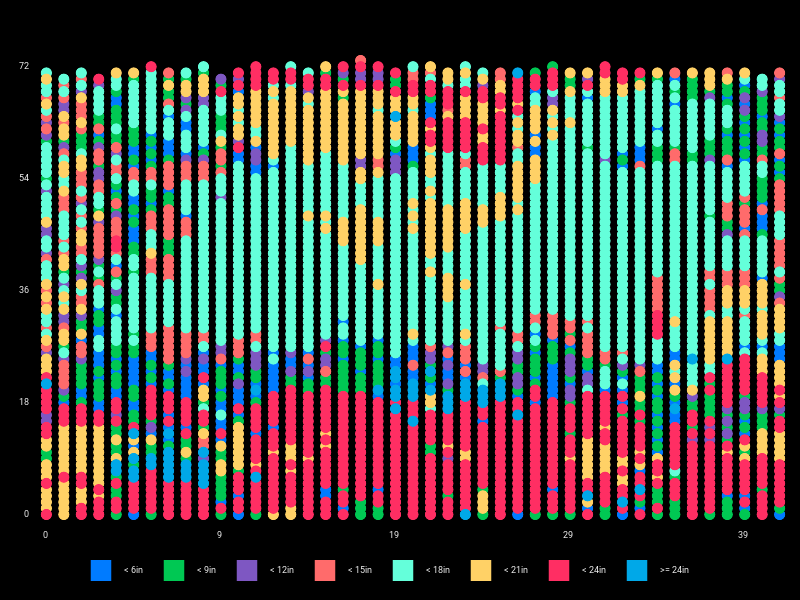
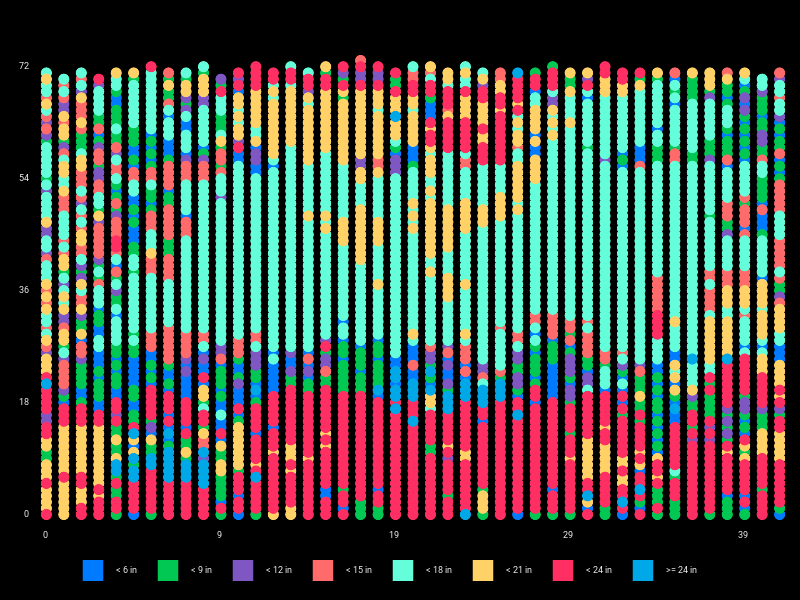
dropdowns

Changed region(s): [[0.0938, 0.93, 0.4688, 0.96], [0.5625, 0.93, 0.875, 0.99]]

diff --git a/app/controllers/data_controller.rb b/app/controllers/data_controller.rb
@@ -120,7 +120,7 @@ class DataController < ApplicationController
     end
 
     get_thickness_heatmap(below_six_x, below_six_y, six_nine_x, six_nine_y, nine_twelve_x, nine_twelve_y, twelve_fifteen_x, twelve_fifteen_y, fifteen_eighteen_x, fifteen_eighteen_y, eighteen_twentyone_x, eighteen_twentyone_y, twentyone_twentyfour_x, twentyone_twentyfour_y, above_twentyfour_x, above_twentyfour_y, x_min, x_max)
-    get_amplitude_heatmap(high_x, high_y, low_x, low_y, x_max, x_min)
+    get_amplitude_heatmap(high_x, high_y, low_x, low_y, x_max, x_min, amplitude_max.to_i)
 
 
   end
@@ -129,14 +129,14 @@ class DataController < ApplicationController
     # Create a Gruff::Scatter plot
     thickness_heatmap = Gruff::Scatter.new(800)
 
-    thickness_heatmap.data "< 6in", below_six_x, below_six_y
-    thickness_heatmap.data '< 9in', six_nine_x, six_nine_y
-    thickness_heatmap.data '< 12in', nine_twelve_x, nine_twelve_y
-    thickness_heatmap.data '< 15in', twelve_fifteen_x, twelve_fifteen_y
-    thickness_heatmap.data '< 18in', fifteen_eighteen_x, fifteen_eighteen_y
-    thickness_heatmap.data '< 21in', eighteen_twentyone_x, eighteen_twentyone_y
-    thickness_heatmap.data '< 24in', twentyone_twentyfour_x, twentyone_twentyfour_y
-    thickness_heatmap.data '>= 24in', above_twentyfour_x, above_twentyfour_y
+    thickness_heatmap.data "< 6 in", below_six_x, below_six_y
+    thickness_heatmap.data '< 9 in', six_nine_x, six_nine_y
+    thickness_heatmap.data '< 12 in', nine_twelve_x, nine_twelve_y
+    thickness_heatmap.data '< 15 in', twelve_fifteen_x, twelve_fifteen_y
+    thickness_heatmap.data '< 18 in', fifteen_eighteen_x, fifteen_eighteen_y
+    thickness_heatmap.data '< 21 in', eighteen_twentyone_x, eighteen_twentyone_y
+    thickness_heatmap.data '< 24 in', twentyone_twentyfour_x, twentyone_twentyfour_y
+    thickness_heatmap.data '>= 24 in', above_twentyfour_x, above_twentyfour_y
 
 
     thickness_heatmap.minimum_x_value = x_min - 0.05
@@ -166,11 +166,11 @@ class DataController < ApplicationController
   end
 
 
-  def get_amplitude_heatmap(high_x, high_y, low_x, low_y, x_max, x_min)
+  def get_amplitude_heatmap(high_x, high_y, low_x, low_y, x_max, x_min, amplitude_max)
     amplitude_heatmap = Gruff::Scatter.new(800)
 
-    amplitude_heatmap.data "< 1M Mv", high_x, high_y
-    amplitude_heatmap.data '> 1M Mv', low_x, low_y
+    amplitude_heatmap.data "< #{amplitude_max / 2} mV", high_x, high_y
+    amplitude_heatmap.data ">= #{amplitude_max / 2} mV", low_x, low_y
 
     amplitude_heatmap.minimum_x_value = x_min - 0.05
     amplitude_heatmap.maximum_x_value = x_max + 0.05

diff --git a/config/routes.rb b/config/routes.rb
@@ -18,6 +18,7 @@ Rails.application.routes.draw do
   post "upload_file", to: "data#upload_file"
 
   get "analyze", to: "data#analyze"
+  post "analyze_file", to: "data#analyze_file"
 
   get "visualize", to: "data#visualize"
 

diff --git a/app/helpers/application_helper.rb b/app/helpers/application_helper.rb
@@ -1,2 +1,5 @@
 module ApplicationHelper
+  def files_in_directory(dir)
+    Dir.children(Rails.root.join('public', dir)).map { |filename| [filename, filename] }
+  end
 end
